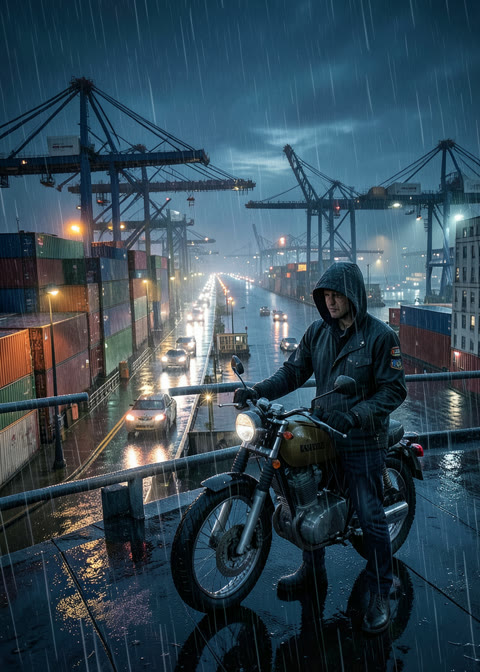
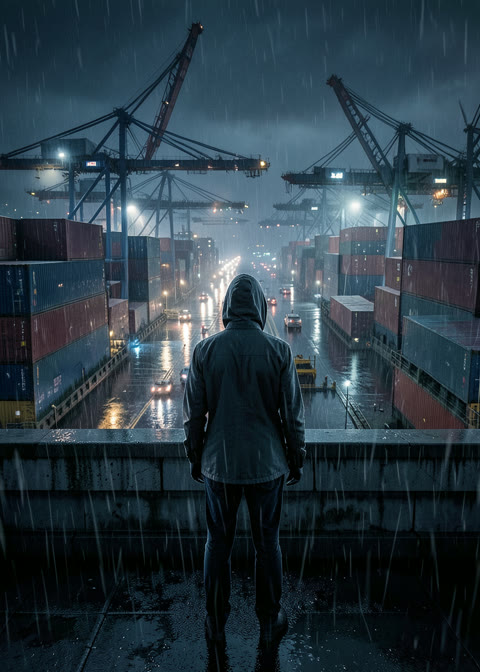
fix(konsole): Download ueber IWebFetch (QA-019), Cover ohne Emblem und Schriftzug

diff --git a/src/Trendo.App/MainWindow.GameLibrary.cs b/src/Trendo.App/MainWindow.GameLibrary.cs
@@ -20,13 +20,19 @@ public partial class MainWindow
     /// <summary>Für Tests: Programmstart nachbilden (Programm, Argumente).</summary>
     public Func<string, IReadOnlyList<string>, bool>? LibStartOverride { get; set; }
     /// <summary>Für Tests: Downloads nachbilden.</summary>
-    public HttpClient? LibHttpOverride { get; set; }
+    public IWebFetch? LibFetchOverride { get; set; }
     /// <summary>Für Tests: Entpacken nachbilden (Archiv, Ziel).</summary>
     public Func<string, string, bool>? LibExtractOverride { get; set; }
     /// <summary>Für Tests: Godot vorgeben.</summary>
     public string? LibGodotOverride { get; set; }
 
-    static readonly HttpClient LibHttp = new() { Timeout = TimeSpan.FromMinutes(5) };
+    static readonly HttpFetch LibHttp = new(new HttpClient { Timeout = TimeSpan.FromMinutes(5) });
+
+    async Task<string?> LibDownload(string url, string sha256, string dest)
+    {
+        try { return await GameLibrary.DownloadAsync(LibFetchOverride ?? LibHttp, url, sha256, dest); }
+        catch (HttpRequestException) { return "Der Download ist fehlgeschlagen. Ist das Internet erreichbar?"; }
+    }
 
     internal static Bitmap? LibraryCover(string id)
     {
@@ -243,7 +249,7 @@ public partial class MainWindow
         if (!_opt.Isolated && Cli.Find("mgba-qt") is { } system) return system;
         if (!OperatingSystem.IsWindows()) { _progMsg[ConsoleKey] = "Installiere mGBA über die Paketverwaltung deines Systems, dann klappt das Spielen."; return null; }
         var archive = Path.Combine(LibMgbaDir, "mgba.7z");
-        if (await GameLibrary.DownloadAsync(LibHttpOverride ?? LibHttp, GameLibrary.MgbaUrl, GameLibrary.MgbaSha256, archive) is { } problem) { _progMsg[ConsoleKey] = "mGBA: " + problem; return null; }
+        if (await LibDownload(GameLibrary.MgbaUrl, GameLibrary.MgbaSha256, archive) is { } problem) { _progMsg[ConsoleKey] = "mGBA: " + problem; return null; }
         _core.Audit.Append(Principal.LocalOwner.Name, "deps.install", "mgba 0.10.5");
         bool extracted;
         if (LibExtractOverride is { } fake) extracted = fake(archive, LibMgbaDir);
@@ -264,7 +270,7 @@ public partial class MainWindow
         var rom = Path.Combine(LibHomebrewDir, GameLibrary.RomFile(e));
         if (!File.Exists(rom) || !string.Equals(ExtensionCatalog.FileSha256(rom), e.Sha256, StringComparison.OrdinalIgnoreCase))
         {
-            if (await GameLibrary.DownloadAsync(LibHttpOverride ?? LibHttp, e.Url!, e.Sha256!, rom) is { } problem) { _progMsg[ConsoleKey] = problem; Show(ConsoleKey); return false; }
+            if (await LibDownload(e.Url!, e.Sha256!, rom) is { } problem) { _progMsg[ConsoleKey] = problem; Show(ConsoleKey); return false; }
             _core.Audit.Append(Principal.LocalOwner.Name, "bibliothek.homebrew", e.Id);
         }
         if (await LibEnsureMgba() is not { } mgba) { Show(ConsoleKey); return false; }

diff --git a/src/Trendo.Core/ConsolePort/GameLibrary.cs b/src/Trendo.Core/ConsolePort/GameLibrary.cs
@@ -1,4 +1,5 @@
 using System.Security.Cryptography;
+using Trendo.Core;
 
 namespace Trendo.Core.ConsolePort;
 
@@ -110,28 +111,21 @@ public static class GameLibrary
     public static string RomFile(Entry e) => e.Url is null ? throw new ArgumentException("Kein Homebrew-Spiel.") : e.Url[(e.Url.LastIndexOf('/') + 1)..];
 
     /// <summary>Lädt eine Datei und behält sie nur, wenn die Prüfsumme stimmt. Liefert null, sonst den Grund.</summary>
-    public static async Task<string?> DownloadAsync(HttpClient http, string url, string sha256, string dest, CancellationToken ct = default)
+    public static async Task<string?> DownloadAsync(IWebFetch web, string url, string sha256, string dest, CancellationToken ct = default)
     {
-        var part = dest + ".part";
         try
         {
+            var reply = await web.GetAsync(url, ct);
+            if (!reply.Ok) return $"Der Download ist fehlgeschlagen ({reply.Status}).";
+            if (!Convert.ToHexString(SHA256.HashData(reply.Body)).Equals(sha256, StringComparison.OrdinalIgnoreCase)) return "Die Prüfsumme stimmt nicht. Die Datei wurde verworfen.";
             Directory.CreateDirectory(Path.GetDirectoryName(dest)!);
-            using (var resp = await http.GetAsync(url, HttpCompletionOption.ResponseHeadersRead, ct))
-            {
-                if (!resp.IsSuccessStatusCode) return $"Der Download ist fehlgeschlagen ({(int)resp.StatusCode}).";
-                await using var from = await resp.Content.ReadAsStreamAsync(ct);
-                await using var to = File.Create(part);
-                await from.CopyToAsync(to, ct);
-            }
-            string actual;
-            await using (var check = File.OpenRead(part)) actual = Convert.ToHexString(await SHA256.HashDataAsync(check, ct));
-            if (!actual.Equals(sha256, StringComparison.OrdinalIgnoreCase)) { File.Delete(part); return "Die Prüfsumme stimmt nicht. Die Datei wurde verworfen."; }
+            var part = dest + ".part";
+            await File.WriteAllBytesAsync(part, reply.Body, ct);
             File.Move(part, dest, true);
             return null;
         }
-        catch (Exception ex) when (ex is HttpRequestException or IOException or TaskCanceledException or UnauthorizedAccessException)
+        catch (Exception ex) when (ex is IOException or TaskCanceledException or UnauthorizedAccessException)
         {
-            try { if (File.Exists(part)) File.Delete(part); } catch (IOException) { }
             return "Der Download ist fehlgeschlagen. Ist das Internet erreichbar?";
         }
     }

diff --git a/tools/spiele_cover.py b/tools/spiele_cover.py
@@ -12,7 +12,7 @@ STYLE = ('cinematic key art for an original video game, vertical poster composit
          'no text, no letters, no title, no logos, no watermark, no brand names')
 
 COVERS = {
-    'morvane': 'an invented rainy harbor city at night seen from a rooftop, container cranes, wet streets with car headlights, a lone courier in a hooded jacket beside a plain unbranded motorcycle',
+    'morvane': 'an invented rainy harbor city at night seen from a rooftop, container cranes, wet streets with car headlights, a lone courier in a plain hooded jacket standing with his back to the viewer, no motorcycle, no vehicle close to the camera, no patches, no badges',
     'moosgrund': 'a tiny glowing forest spirit made of moss leaping between giant mossy tree tops, shafts of warm sunlight, stylized early 2000s 3D game look',
     'ascheturm': 'an armored lone knight with a worn greatsword before an immense tower of grey ash and drifting embers, gloomy dusk',
     'kuestenrallye': 'two plain unbranded rally cars drifting around a sunny coastal cliff road, turquoise sea, dust clouds, early 2000s 3D racing game look',
@@ -22,7 +22,7 @@ COVERS = {
     'sternenwerft': 'a huge orbital shipyard above a blue planet, a small patched-together spaceship leaving the dock, laser sparks in the distance',
     'demo-platformer-3d': 'a small cheerful robot jumping across floating grass islands collecting golden coins, bright blue sky, stylized 3D',
     'demo-squash': 'a small round hero jumping onto colorful blob creatures on a simple arena floor, playful stylized 3D',
-    'demo-truck': 'a sturdy plain unbranded truck driving through a tiny toy-like town on a hilly road, warm afternoon light',
+    'demo-truck': 'a tiny toy-like wooden delivery truck painted solid orange seen from the side and from behind, driving away through a tiny toy-like town on a hilly road, no grille visible, no emblem, warm afternoon light',
     'demo-platformer-2d': 'a pixel art scene of a small adventurer running across green platforms in a cave, retro palette',
     'demo-dodge': 'a small character dodging swarms of little creatures on a dark blue field, simple playful 2D illustration',
     'hb-libbet': 'a small girl unrolling a magic glowing carpet tile by tile across a dark floor, four-color green handheld game palette, pixel art',

diff --git a/tests/Trendo.Core.Tests/GameLibraryTests.cs b/tests/Trendo.Core.Tests/GameLibraryTests.cs
@@ -1,5 +1,5 @@
-using System.Net;
 using System.Security.Cryptography;
+using Trendo.Core;
 using Trendo.Core.ConsolePort;
 using Xunit;
 
@@ -7,9 +7,9 @@ namespace Trendo.Core.Tests;
 
 public class GameLibraryTests
 {
-    sealed class Fake(HttpStatusCode code, byte[] body) : HttpMessageHandler
+    sealed class Fake(int code, byte[] body) : IWebFetch
     {
-        protected override Task<HttpResponseMessage> SendAsync(HttpRequestMessage r, CancellationToken c) => Task.FromResult(new HttpResponseMessage(code) { Content = new ByteArrayContent(body) });
+        public Task<WebReply> GetAsync(string url, CancellationToken ct = default) => Task.FromResult(new WebReply(code, body));
     }
 
     static string Temp() { var d = Path.Combine(Path.GetTempPath(), "trendo-lib-" + Guid.NewGuid().ToString("N")); Directory.CreateDirectory(d); return d; }
@@ -78,7 +78,7 @@ public class GameLibraryTests
             byte[] body = [1, 2, 3, 4];
             var sha = Convert.ToHexString(SHA256.HashData(body));
             var dest = Path.Combine(d, "sub", "spiel.gb");
-            using var ok = new HttpClient(new Fake(HttpStatusCode.OK, body));
+            var ok = new Fake(200, body);
             Assert.Null(await GameLibrary.DownloadAsync(ok, "https://x.test/a", sha, dest));
             Assert.Equal(body, File.ReadAllBytes(dest));
 
@@ -87,7 +87,7 @@ public class GameLibraryTests
             Assert.False(File.Exists(bad));
             Assert.False(File.Exists(bad + ".part"));
 
-            using var nf = new HttpClient(new Fake(HttpStatusCode.NotFound, []));
+            var nf = new Fake(404, []);
             Assert.Contains("404", await GameLibrary.DownloadAsync(nf, "https://x.test/a", sha, bad));
         }
         finally { Directory.Delete(d, true); }

diff --git a/tests/Trendo.App.Tests/GameLibraryUiTests.cs b/tests/Trendo.App.Tests/GameLibraryUiTests.cs
@@ -1,4 +1,3 @@
-using System.Net;
 using Avalonia.Controls;
 using Avalonia.Headless.XUnit;
 using Avalonia.Platform;
@@ -14,9 +13,9 @@ public class GameLibrary_Ui
 {
     const string K = "konsole-programm";
 
-    sealed class Fake(byte[] body) : HttpMessageHandler
+    sealed class Fake(byte[] body) : Trendo.Core.IWebFetch
     {
-        protected override Task<HttpResponseMessage> SendAsync(HttpRequestMessage r, CancellationToken c) => Task.FromResult(new HttpResponseMessage(HttpStatusCode.OK) { Content = new ByteArrayContent(body) });
+        public Task<Trendo.Core.WebReply> GetAsync(string url, CancellationToken ct = default) => Task.FromResult(new Trendo.Core.WebReply(200, body));
     }
 
     static (MainWindow w, string root) Open()
@@ -112,7 +111,7 @@ public class GameLibrary_Ui
     {
         var (w, root) = Open();
         var started = false;
-        w.LibHttpOverride = new HttpClient(new Fake([9, 9])); w.LibStartOverride = (_, _) => { started = true; return true; };
+        w.LibFetchOverride = new Fake([9, 9]); w.LibStartOverride = (_, _) => { started = true; return true; };
         Assert.False(await w.LibPlayHomebrew(GameLibrary.Find("hb-libbet")!));
         Assert.False(started);
         Assert.Empty(Directory.Exists(Path.Combine(root, "konsolenspiele", "homebrew")) ? Directory.GetFiles(Path.Combine(root, "konsolenspiele", "homebrew")) : []);
